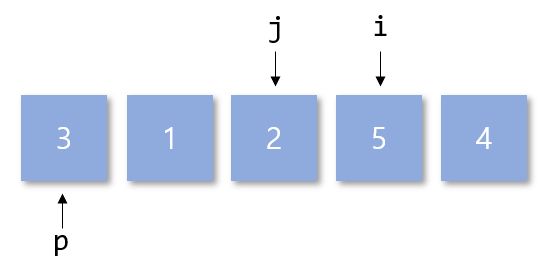
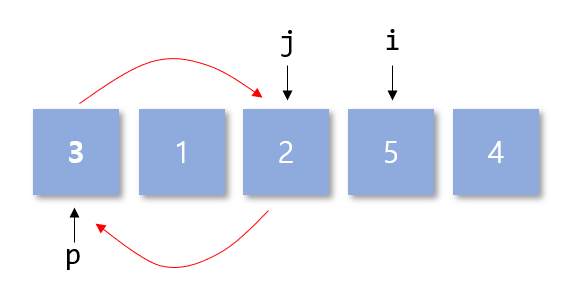
Update README and qsort

diff --git a/study/Algorithm/Sorts/QuickSort.md b/study/Algorithm/Sorts/QuickSort.md
@@ -39,9 +39,12 @@ i와 j는 각각 조건에 따라서 위의 그림처럼 결정되는데, 이후
 ![qsort3](./images/qsort_3.PNG)
 
 위의 그림은 while문을 빠져나간 직후의 모습이다. 이 값은 현재 p의 값을 기준으로 오른쪽 왼쪽으로 진행한 부분이기 때문에 p를 j와 바꿔주는 과정을 통해 중간으로 옮겨줘야한다. 따라서 **Line 13**은 두 값을 바꾸어 주는 역할을 진행하게 된다.  
-다음 line부터는 재귀함수의 호출을 진행하게 되는데, 이 때의 모습은 다음과 같이 p를 기준으로 왼쪽 오른쪽의 범위를 이동하게 된다.
+다음 line부터는 재귀함수의 호출을 진행하게 되는데, 이 때의 모습은 다음과 같이 p를 기준으로 왼쪽 오른쪽의 범위를 이동하게 된다.  
 
 ![qsort4](./images/qsort_4.PNG)
+
+재귀를 호출한 모습은 위의 그림과 같다. 각각 `pivot`인 `j`의 위치에서 왼쪽, 오른쪽의 범위에 해당되게 되고 위의 과정을 반복하게 된다.  
+따라서 이 Quick sort의 time complexity는 O(NlogN)이다.
 
 
 

diff --git a/study/README.md b/study/README.md
@@ -12,8 +12,8 @@
 ### OOP
 
 ### Algorithms
-* [Quick Sort](./Algorithm/Sort/QuickSort.md)
-* [Merge Sort](./Algorithm/Sort/MergeSort.md)
+* [Quick Sort](./Algorithm/Sorts/QuickSort.md)
+* [Merge Sort](./Algorithm/Sorts/MergeSort.md)
 * Union, Find
 * Heap
 * Hash
